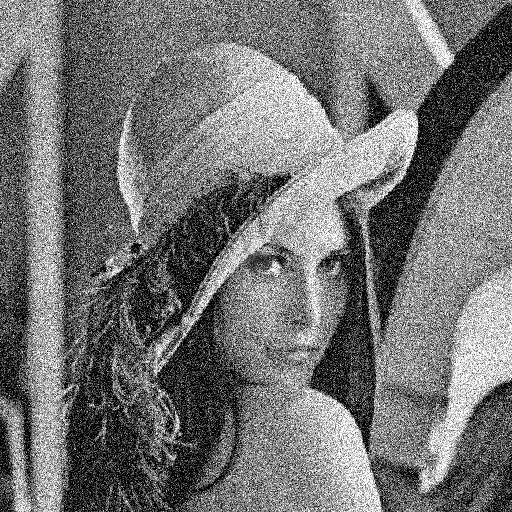
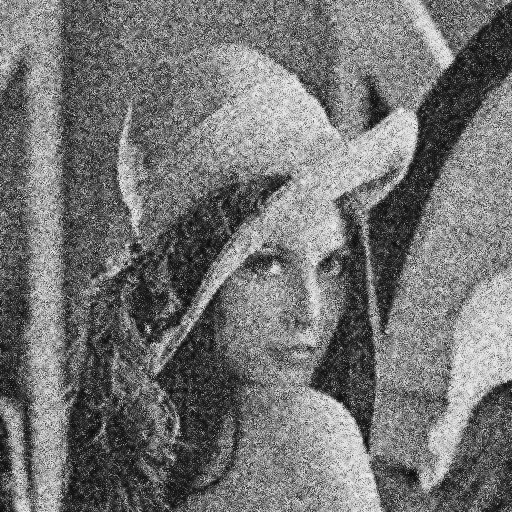
final attempt

diff --git a/pseudo_cross_bilateral_filter.py b/pseudo_cross_bilateral_filter.py
@@ -14,22 +14,15 @@ def pseudo_cross_bilateral_filter(img1, img2, sigma_spatial, sigma_range):
             # Intensity difference
             intensity_diff = np.abs(img1[y, x] - img2[y, x])
 
-            # Scale the intensity differences to avoid overflow
-            intensity_diff_scaled = intensity_diff / max(sigma_range, 1e-6)
-
             # Range weight
-            range_weight = np.exp(-np.sum(intensity_diff_scaled ** 2) / 2)
+            range_weight = np.exp(-np.clip(intensity_diff / (2 * sigma_range ** 2), -700, 700))
 
             # Combined weight (normalize to ensure weights sum up to 1.0)
             total_weight = spatial_weight + range_weight
-            combined_weight = range_weight / total_weight  # Adjusted normalization
+            combined_weight = range_weight / total_weight
 
-            # Apply the weight to each channel without a global scaling factor
-            filtered_intensity = combined_weight * img1[y, x] + (1 - combined_weight) * img2[y, x]
-
-            # Adjust the intensity based on the difference between input and filtered images
-            intensity_adjustment = filtered_intensity - img2[y, x]
-            filtered_img[y, x] = img2[y, x] + intensity_adjustment
+            # Apply the weight to each channel of the second image
+            filtered_img[y, x] = combined_weight * img2[y, x] + (1 - combined_weight) * img1[y, x]
 
     return filtered_img.astype(np.uint8)
 
